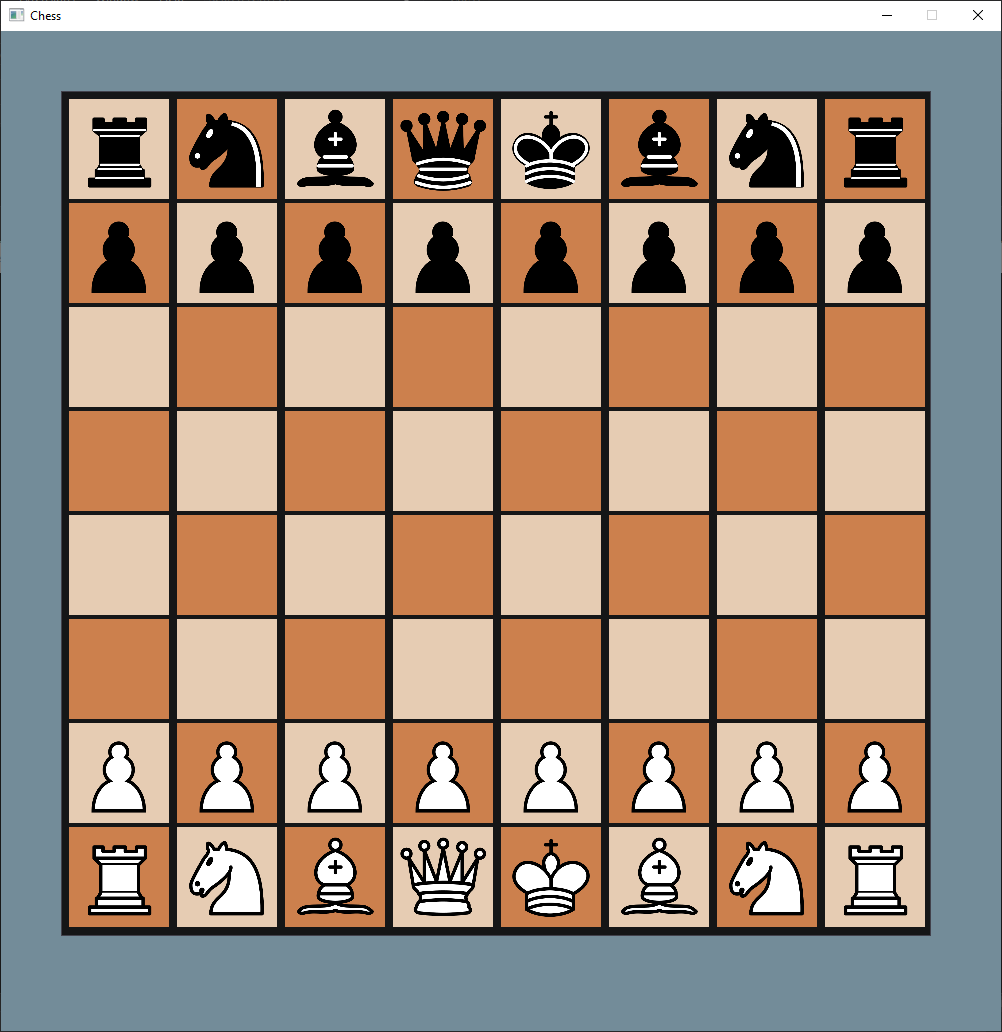
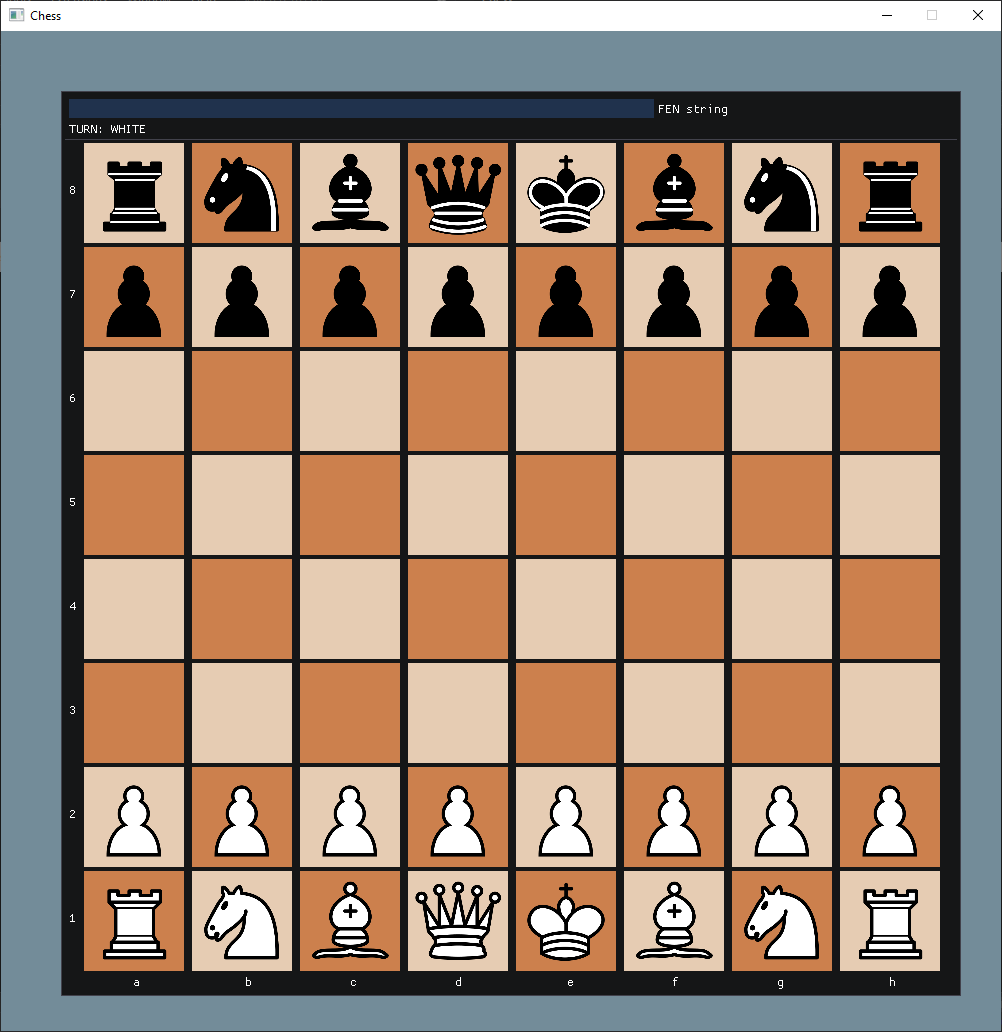
Added ranks and files on GUI; Updated overview image

diff --git a/src/src/GameLoop.cpp b/src/src/GameLoop.cpp
@@ -292,7 +292,7 @@ bool parseFEN(Board* board, char *fen)
 void runGameLoop(GLFWwindow* window)
 {
     // Our state
-    //bool show_demo_window = true;
+    bool show_demo_window = false;
     //bool show_another_window = false;
 
     ImVec4 clear_color = ImVec4(0.45f, 0.55f, 0.60f, 1.00f);
@@ -385,9 +385,10 @@ void runGameLoop(GLFWwindow* window)
         ImGui_ImplGlfw_NewFrame();
         ImGui::NewFrame();
 
-        ImGui::SetNextWindowSize(ImVec2(870, 870));
+        ImGui::SetNextWindowSize(ImVec2(900, 905));
         ImGui::Begin("Game", nullptr, ImGuiWindowFlags_NoTitleBar | ImGuiWindowFlags_NoResize | ImGuiWindowFlags_NoMove);
 
+        // FEN string parser input text field
         static char input[91] = "";
         if (ImGui::InputText("FEN string", input, 91, ImGuiInputTextFlags_EnterReturnsTrue))
         {
@@ -405,15 +406,35 @@ void runGameLoop(GLFWwindow* window)
             strcpy(input, "");
         }
 
+        // show who's turn it is right now
+        ImGui::Text("TURN: %s", board.getSide() ? "BLACK" : "WHITE");
+
+        ImGui::Separator();
+
+        float rankPosY;
+        float filePosX;
         for (int square = 0, pattern = 0; square < 64; ++square)
         {
             ImGui::PushID(square);
+
+            // show ranks
+            if (square % 8 == 0)
+            {
+                rankPosY = ImGui::GetCursorPosY();
+                ImVec2 rankPos = ImVec2(ImGui::GetCursorPosX(), ImGui::GetCursorPosY() + 40.0f);
+                ImGui::SetCursorPos(rankPos);
+                ImGui::Text("%d", 8 - (square / 8));
+                ImGui::SameLine();
+                filePosX = ImGui::GetCursorPosX();
+            }
+            
 
             if ((square % 8) > 0)
             {
                 pattern++;
                 ImGui::SameLine();
             }
+            ImGui::SetCursorPos(ImVec2(ImGui::GetCursorPosX(), rankPosY));
                     
             ImVec4 bg;
             // draw tile
@@ -453,27 +474,25 @@ void runGameLoop(GLFWwindow* window)
                 //ImGui::Image((void*)(intptr_t)whitePawnImageTexture, BOARD_TILE);
                 if (ImGui::ImageButton((void*)(intptr_t)whitePawnImageTexture, BOARD_TILE, uv0, uv1, 0, bg, noTint))
                 {
-                    //if (board.getSide() == board.white)
-                    //{
-                    //    // only compute when it's its turn
-                    //    printf("Square: %d\n", square);
-                    //    // getting the selected square tile
-                    //    // first click: select the piece on this square
-                    //    if (!clicked)
-                    //    {
-                    //        fromSquare = square;
-                    //        // compute possible moves
-                    //    }
-                    //    // second click: move the piece to this square
-                    //    else
-                    //    {
-                    //        toSquare = square;
+                    if (board.getSide() == board.white)
+                    {
+                        // first click: select the piece on this square and generate pawn moves
+                        if (!clicked)
+                        {
+                            fromSquare = square;
+                            // compute possible moves or captures
 
-                    //        // moved the piece, flip the side
-                    //        board.flipSide();
-                    //    }
-                    //    clicked = !clicked;
-                    //}
+                        }
+                        // second click: move the piece to this square
+                        else
+                        {
+                            toSquare = square;
+
+                            // moved the piece, flip the side
+                            board.flipSide();
+                        }
+                        clicked = !clicked;
+                    }
                 }
             }
             else if ((board.getBlackPawns() >> square) & 1ULL)
@@ -599,11 +618,14 @@ void runGameLoop(GLFWwindow* window)
             ImGui::PopID();
         }
 
+        ImGui::SetCursorPos(ImVec2(filePosX, ImGui::GetCursorPosY()));
+        ImGui::Text("\t   a\t\t\t   b\t\t\t  c\t\t\t  d\t\t\t   e\t\t\t  f\t\t\t  g\t\t\t   h");
+
         ImGui::End();
 
         // 1. Show the big demo window (Most of the sample code is in ImGui::ShowDemoWindow()! You can browse its code to learn more about Dear ImGui!).
-        //if (show_demo_window)
-        //    ImGui::ShowDemoWindow(&show_demo_window);
+        if (show_demo_window)
+            ImGui::ShowDemoWindow(&show_demo_window);
 
         //// 2. Show a simple window that we create ourselves. We use a Begin/End pair to created a named window.
         //{

diff --git a/src/src/Board.h b/src/src/Board.h
@@ -321,6 +321,7 @@ public:
     U64 getKingAttackBitboard(int square);
     void initSliderAttacks(bool isBishop);
 
+    // move generator methods
     bool isSquareAttacked(int side, int square);
 
     // magic number methods

diff --git a/src/src/Board.cpp b/src/src/Board.cpp
@@ -302,6 +302,8 @@ void Board::initSliderAttacks(bool isBishop)
     }
 }
 
+// move generator methods
+
 bool Board::isSquareAttacked(int side, int square)
 {
     // white
